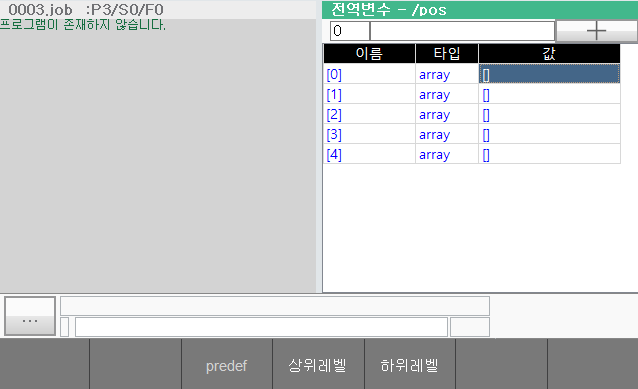
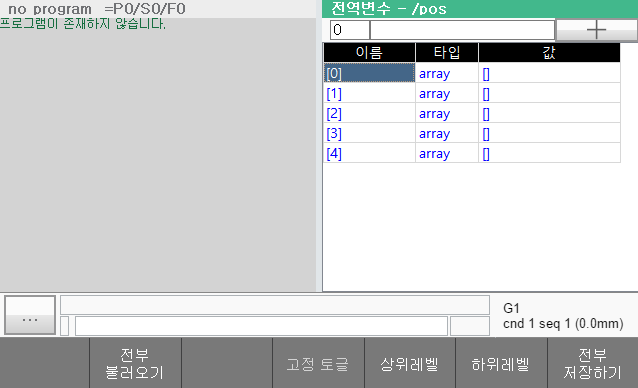
[HIXM-1159] 사양 변경 : 1) 전역 최상위 배열은 무조건 csv 로 저장되도록. 2) fixed 사양 추가.

diff --git a/6-monitoring/8-global-variable/3-var-files.md b/6-monitoring/8-global-variable/3-var-files.md
@@ -1,0 +1,101 @@
+# 6.8.3 변수 파일
+
+변수 값들은 전원을 꺼도 보존되어야 하므로 파일로도 저장되는데, 전역변수는 종류에 따라 아래의 2가지 형태로 저장됩니다.
+
+<table>
+  <thead>
+    <tr>
+      <th style="text-align:left">종류</th>
+      <th style="text-align:left">경로파일명</th>
+      <th style="text-align:left">설명</th>
+    </tr>
+  </thead>
+  <tbody>
+    <tr>
+      <td style="text-align:left">
+        전역 최상위(root) 배열 변수
+      </td>
+      <td style="text-align:left">MAIN/project/vars/*.csv</td>
+      <td style="text-align:left">각 변수마다 파일이 1개씩 생성되며 파일명은 변수명과 동일합니다.</td>
+    </tr>
+	 <tr>
+      <td style="text-align:left">
+        나머지 변수
+      </td>
+      <td style="text-align:left">MAIN/project/vars/vars.json</td>
+      <td style="text-align:left">나머지 모든 전역 변수가 하나의 파일로 모아서 저장됩니다.</td>
+    </tr>
+	</tbody>
+</table>
+
+<br>
+
+## vars/.csv 파일
+
+파일관리자에서 `MAIN/project/vars/` 폴더를 열어보면 `weld_points.csv`라는 파일이 생성되어 있습니다. 최상위 레벨에서 배열 변수를 생성하면 변수명과 동일한 .csv 파일이 생성되며, 변수를 삭제하면 해당 파일은 자동으로 삭제됩니다.
+
+![](../../_assets/tp630/panel-gvar/csv0.png)
+
+이 파일을 USB 메모리나 FTP로 복사하여 PC에서 열어봅시다. .csv 파일은 Comma-Separated Values 즉, 쉼표로 구분된 값들을 표현하는 아주 단순한 표준 텍스트 포맷입니다.
+
+참고 : [위키백과: CSV (파일 형식)](https://ko.wikipedia.org/wiki/CSV_(%ED%8C%8C%EC%9D%BC_%ED%98%95%EC%8B%9D))
+
+.csv 파일은 하나의 2차원 표를 표현하는데, 열은 쉼표로 구분하고 행은 개행으로 구분합니다.
+
+![](../../_assets/tp630/panel-gvar/csv1.png)
+
+기정의 변수를 저장한 csv 파일은 `weld_points` 2차원 배열을 만들어가는 과정이 순서대로 나열되어 있습니다.
+
+각 행은 1번 째 열은 인덱스, 2번 째 열은 타입, 3번 째~마지막 열은 값입니다. 첫 행은 표의 헤더로서 이를 설명하고 있습니다.
+
+둘 째 행은 최상위 레벨, 즉 `weld_points` 자신을 만드는 행입니다. 따라서 인덱스 열은 비어 있고, 타입은 array, 개수는 10입니다. 즉, 일단 `weld_points[10]`이 만들어지며, 10개의 요소는 기본값인 0들로 채워집니다.
+
+```python
+, array, 10
+```
+
+다음 행들은 `weld_points[0]`의 요소들에 포즈타입 값을 생성해 대입하는 행입니다.
+
+```python
+[0][0], Pose, 0.000, 0.000, 0.000, 0.000, 0.000, 0.000, "base"
+[0][1], Pose, 0.000, 0.000, 0.000, 0.000, 0.000, 0.000, "base"
+...
+```
+
+`weld_points[0]`에 대해 100개의 행이 수행되면 다음은 아래와 같이 `weld_points[1]`에 대한 처리를 수행하는 행들이 이어집니다.
+
+```python
+[1], array; 100
+[1][0], Pose; 0.000, 0.000, 0.000, 0.000, 0.000, 0.000, "base"
+[1][1], Pose; 0.000, 0.000, 0.000, 0.000, 0.000, 0.000, "base"
+[1][2], Pose; 0.000, 0.000, 0.000, 0.000, 0.000, 0.000, "base"
+...
+```
+
+.csv 파일을 파일관리자에서 더블클릭하여, Microsof Excel로 열어 편집할 수 있습니다. 편집이 끝나면 저장 버튼이나 `Ctrl+S`로 저장하십시오.
+
+![](../../_assets/tp630/panel-gvar/csv2.png)
+
+Excel에서 저장하면 아래와 같이 불필요한 쉼표도 생기고, 좌표계의 따옴표도 사라져서 형식이 약간 변화합니다. Excel이 .csv를 처리하는 방식이므로 어쩔 수 없습니다. 어쨌든 Hi6 제어기는 아래의 형식도 인식하므로 상관없습니다.
+
+```python
+, array,10,,,,,,
+[0], array,100,,,,,,
+[0][0], Pose,0,90,10,0,20,0,
+[0][1], Pose,0,0,0,0,0,0,base
+[0][2], Pose,0,10,0,0,0,0,robot
+[0][3], Pose,0,20,0,0,0,0,base
+[0][4], Pose,0,0,0,0,0,0,base
+[0][5], Pose,0,0,0,0,0,0,base
+```
+
+<br>
+
+## .csv 불러오기
+
+편집한 파일을 다시 `MAIN/project/vars/` 에 덮어쓸 수 있지만, 메모리에 자동 반영되지는 않습니다.
+
+전역변수 창에서 [F2: 전부 불러오기] 버튼을 클릭하면, `vars/` 폴더의 모든 변수 파일을 메모리로 다시 불러옵니다.
+(변수 파일을 삭제하고 [F2: 전부 불러오기]를 클릭하면, 메모리의 해당 변수도 삭제되므로 주의하십시오.)
+
+![](../../_assets/tp630/panel-gvar/fixed-var.png)

diff --git a/6-monitoring/8-global-variable/2-array-object.md b/6-monitoring/8-global-variable/2-array-object.md
@@ -1,0 +1,75 @@
+# 6.8.2 배열과 객체
+
+## 배열 생성하기
+
+pos라는 이름의 5x200의 2차원 포즈 배열 변수를 생성하는 예로 설명하겠습니다.
+위에서 설명한 방법으로 pos라는 이름의 변수를 생성합니다.
+
+![](../../_assets/tp630/panel-gvar/gv-new-arr1.png)
+
+
+타입 열을 선택하고 ENTER키를 누릅니다. 아래와 같이 변수 생성하기 대화상자가 나타납니다.
+
+![](../../_assets/tp630/panel-gvar/gv-new-arr2.png)
+
+타입 리스트에서 포즈를 선택합니다. 요소 개수에 5,200을 입력하고 확인 버튼을 누르면, pos의 타입이 Pose[5][200]의 배열로 변경됩니다.
+
+![](../../_assets/tp630/panel-gvar/gv-new-arr3.png)
+
+
+{% hint style="warning" %}
+\[경고\] 지나치게 큰 배열을 정의하면, 저장이나 불러오기에 소요되는 시간이 길어지고 정전시의 자동 저장이 실패할 수 있으므로 유의하십시오.
+{% endhint %}
+
+
+## 배열 요소값 확인하고 변경하기
+
+배열 변수의 값은 []로만 표시되고 요소들의 값은 표시되지 않습니다.
+값 열을 선택하고 ENTER키를 누르거나 [F6: 하위레벨] 버튼을 클릭하면 배열이 하위레벨로 펼쳐지면서 요소 값들을 볼 수 있습니다.  
+
+![](../../_assets/tp630/panel-gvar/gv-arr-level1.png)
+
+배열 요소에 대해서도 위에서 설명한 방법으로 값이나 타입을 변경할 수 있습니다.  
+
+2차원 배열 pos에서 pos[0]~pos[4] 또한 배열들입니다. ENTER키나 F6키를 눌러 하위레벨로 계속 내려갈 수 있습니다. 현재 표시되고 있는 배열의 레벨과 인덱스는 전역변수창 제목막대에서 확인할 수 있습니다.
+
+[F5: 상위레벨] 버튼을 클릭하거나 ESC키를 누르면 다시 상위레벨로 올라갑니다.
+
+![](../../_assets/tp630/panel-gvar/gv-arr-level2.png)
+
+배열은 동시에 100개의 요소만 표시되기 때문에, 기본적으로 [0]~[99] 인덱스 범위만 볼 수 있습니다. 좌상단의 시작 인덱스 편집박스의 값을 바꾸면 다른 범위의 요소도 확인 가능합니다. 예를 들어 /pos[4]에서 시작 인덱스에 190을 입력하면, [190]~[199]의 요소를 볼 수 있습니다.
+
+
+## 객체 속성값 확인하고 변경하기
+
+객체 변수의 값 열을 선택하고 ENTER키를 누르거나 F5: 하위레벨 버튼을 클릭하면 객체가 하위레벨로 펼쳐지면서 속성 값들을 볼 수 있습니다. 조작방식은 배열과 거의 유사합니다. 단 시작 인덱스 편집박스는 사용되지 않습니다.
+
+![](../../_assets/tp630/panel-gvar/gv-obj2.png)
+
+<br>
+
+## 고정 변수(fixed-variable)
+
+가령 전역변수 창에서 `weld_points`라는 대량의 포즈를 작성했는데, 아래와 같은 대입문 수행에 의해 모든 데이터가 삭제될 수 있습니다.
+
+```python
+weld_points=0
+```
+
+변수를 고정(fixed)으로 지정하면 이러한 실수를 방지할 수 있습니다.
+
+![](../../_assets/tp630/panel-gvar/fixed-var.png)
+
+전역변수 창의 최상위 레벨에서 배열 변수를 선택하고 [F4: 고정 토글]을 누르면, 타입이 `array`에서 `F.array` (fixed-array)로 변경됩니다.
+고정 변수로 지정되면, 대입문으로 다른 값을 대입할 수 없습니다. `weld_points`가 fixed 2차원 배열일 때, 아래 각 대입문의 결과는 주석과 같습니다.
+
+```python
+global weld_points  # 무시됨.
+global weld_points=0  # 대입 불가 에러 발생
+weld_points=0  # 대입 불가 에러 발생
+weld_points[2]=Array[30]  # 요소에 새로운 값 대입 가능
+weld_points[2][1]="light"  # 요소에 새로운 값 대입 가능
+weld_points[2][1].j2=90.5  # 속성에 새로운 값 대입 가능
+```
+
+[F4: 고정 토글]을 한번 더 수행하면 고정이 해제되면서 `F.array`가 다시 `array`로 원상복구됩니다.

diff --git a/6-monitoring/8-global-variable/1-basic-feature.md b/6-monitoring/8-global-variable/1-basic-feature.md
@@ -88,16 +88,16 @@ pos라는 이름의 5x200의 2차원 포즈 배열 변수를 생성하는 예로
 
 ## 배열 요소값 확인하고 변경하기
 
-배열 변수의 값은 [ ]로만 표시되고 요소들의 값은 표시되지 않습니다.
-값 열을 선택하고 ENTER키를 누르거나 F5: 하위레벨 버튼을 클릭하면 배열이 하위레벨로 펼쳐지면서 요소 값들을 볼 수 있습니다.  
+배열 변수의 값은 []로만 표시되고 요소들의 값은 표시되지 않습니다.
+값 열을 선택하고 ENTER키를 누르거나 [F6: 하위레벨] 버튼을 클릭하면 배열이 하위레벨로 펼쳐지면서 요소 값들을 볼 수 있습니다.  
 
 ![](../../_assets/tp630/panel-gvar/gv-arr-level1.png)
 
 배열 요소에 대해서도 위에서 설명한 방법으로 값이나 타입을 변경할 수 있습니다.  
 
-2차원 배열 pos에서 pos[0]~pos[4] 또한 배열들입니다. ENTER키나 F5키를 눌러 하위레벨로 계속 내려갈 수 있습니다. 현재 표시되고 있는 배열의 레벨과 인덱스는 전역변수창 제목막대에서 확인할 수 있습니다.
+2차원 배열 pos에서 pos[0]~pos[4] 또한 배열들입니다. ENTER키나 F6키를 눌러 하위레벨로 계속 내려갈 수 있습니다. 현재 표시되고 있는 배열의 레벨과 인덱스는 전역변수창 제목막대에서 확인할 수 있습니다.
 
-F4: 상위레벨 버튼을 클릭하거나 ESC키를 누르면 다시 상위레벨로 올라갑니다.
+[F5: 상위레벨] 버튼을 클릭하거나 ESC키를 누르면 다시 상위레벨로 올라갑니다.
 
 ![](../../_assets/tp630/panel-gvar/gv-arr-level2.png)
 

diff --git a/SUMMARY.md b/SUMMARY.md
@@ -115,7 +115,8 @@
   * [6.7 범용 출력](6-monitoring/7-user-output.md)
   * [6.8 전역변수](6-monitoring/8-global-variable/README.md)
     * [6.8.1 기본 기능](6-monitoring/8-global-variable/1-basic-feature.md)
-    * [6.8.2 기정의 변수 기능](6-monitoring/8-global-variable/2-predef.md)
+    * [6.8.2 배열과 객체](6-monitoring/8-global-variable/2-array-object.md)
+    * [6.8.3 변수 파일](6-monitoring/8-global-variable/3-var-files.md)
   * [6.9 지역변수](6-monitoring/9-local-variable.md)
   * [6.10 가동정보](6-monitoring/10-op-info.md)
   * [6.11 히스토리](6-monitoring/11-history.md)
